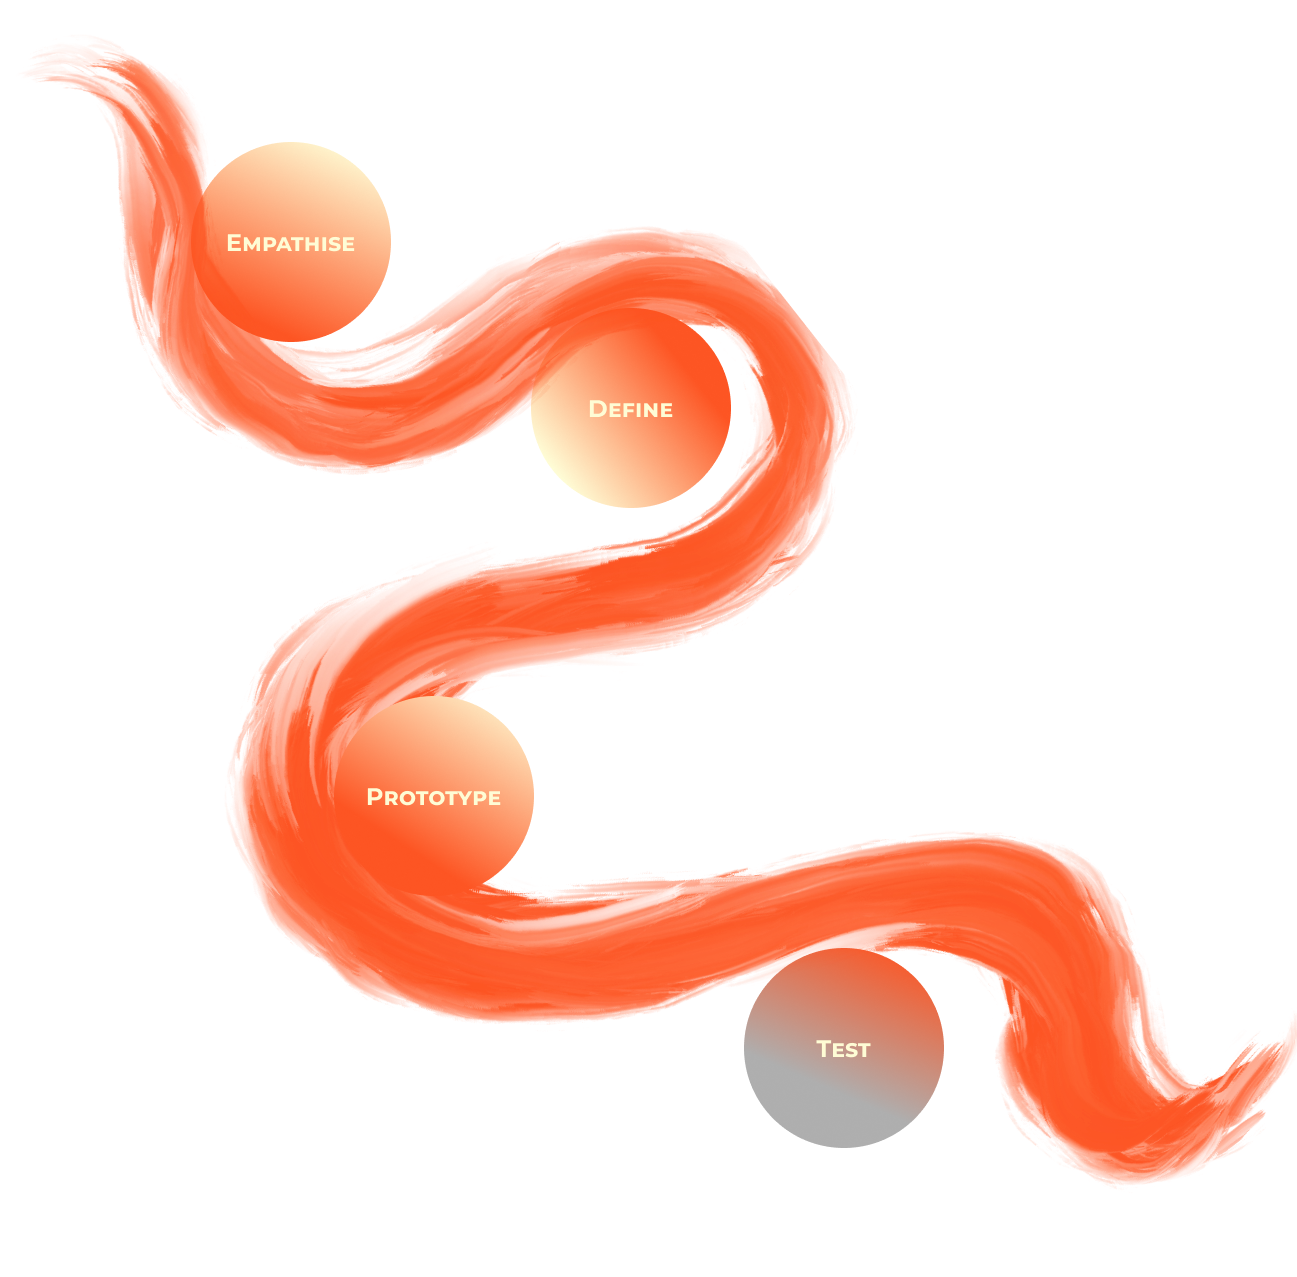
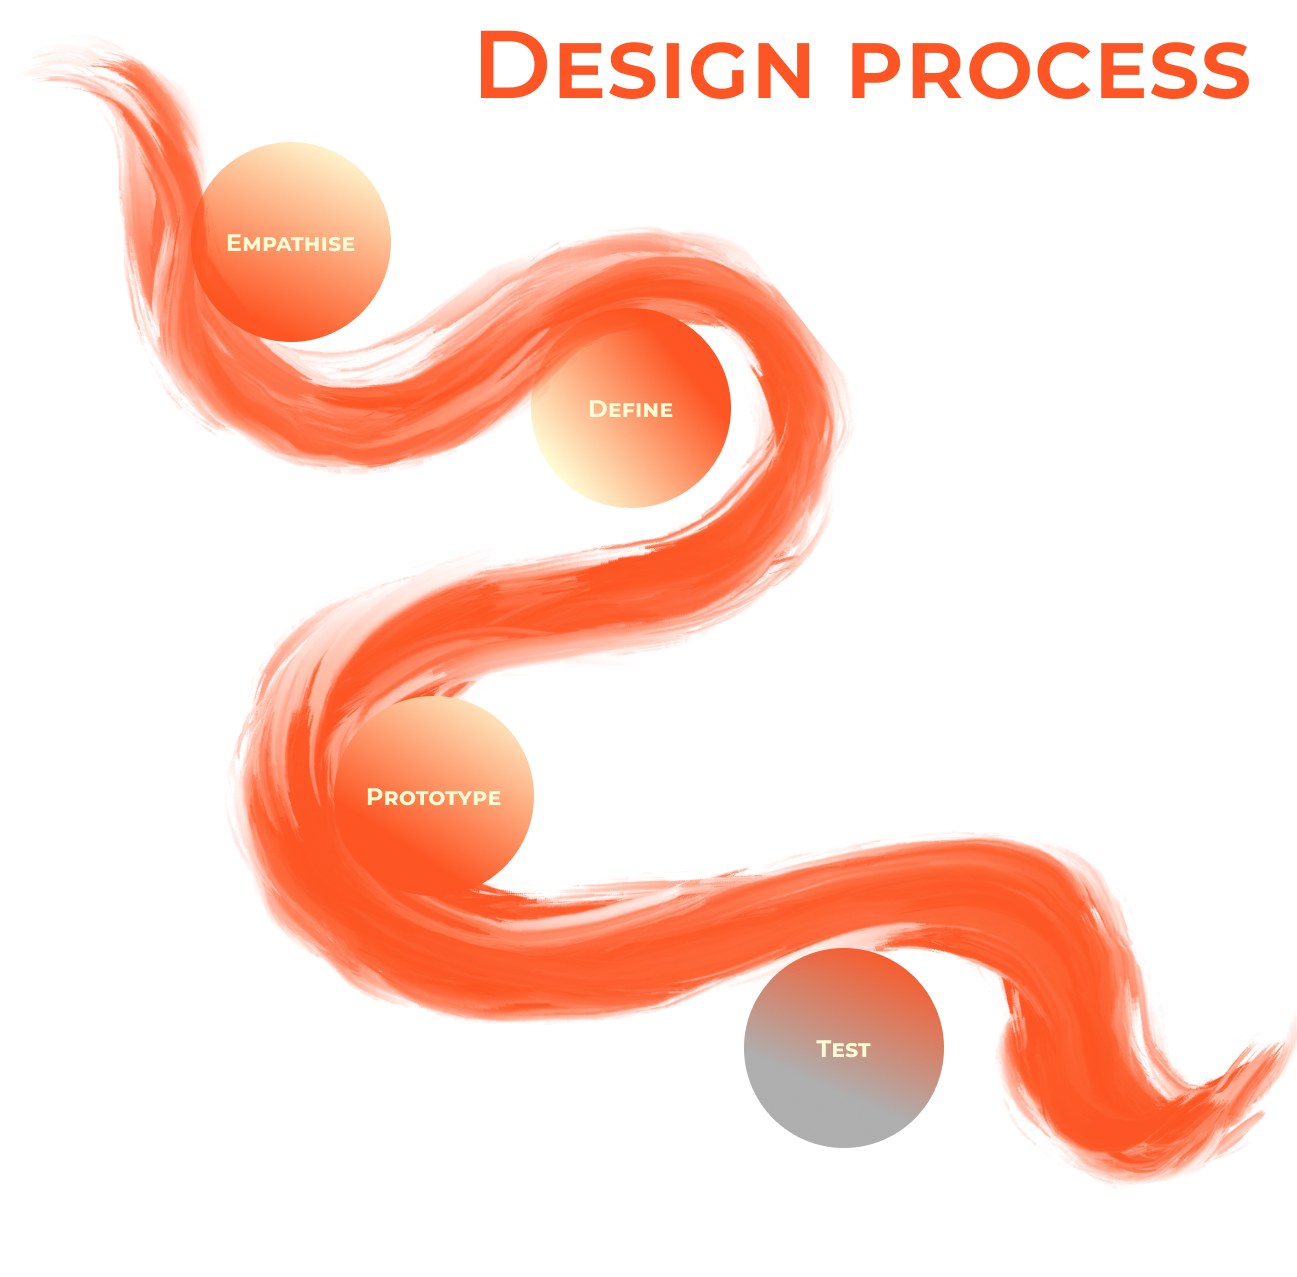
added design process

Changed region(s): [[0.3701, 0.0, 0.9561, 0.0916]]

diff --git a/css/main.css b/css/main.css
@@ -88,15 +88,17 @@ p.dark {
 
 #background-header {
     text-align: center;
+    font-size:100px;
 }
 
 #background-section-container2{
     background-image: url("../images/backgroundsection.png");
-    min-height:1500px;
+    min-height:1300px;
+    height: auto;
 }
 
 #background-section {
-    margin-top:400px;
+    margin-top:300px;
 }
 
 .textcard {
@@ -104,9 +106,28 @@ p.dark {
     border-radius:25px;
     padding:50px;
     max-width:600px;
+    margin-top:20px;
+    margin-left:80px;
 }
 
 #offsetcard {
-    margin-top: 200px;
+    margin-top: 100px;
 
 }
+
+#designprocess {
+    width: 80%;
+    min-width: 400px;
+    min-height:500px;
+}
+.sectioncontainer {
+    margin-top:20px;
+    margin-bottom: 20px;
+}
+#designprocessheader {
+    text-align: right;
+}
+/* 
+.container-fluid.design-process{
+    background-image: url("../images/designprocess.png");
+} */

diff --git a/index.html b/index.html
@@ -81,13 +81,13 @@
 		</div>
 
 		<!--Background---------------------------------------->
-		<div class="container-fluid" id="background-section-container2">
+		<div id="background-section-container2">
 			<div class="row" id="background-section">
 				<div class="col-sm">
 					<h1 class="dark" id="background-header">The Background</h1>
 				</div>
 			</div>
-			<div class="row">
+			<div class="row align-items-center">
 				<div class="col-sm">
 					<div class="textcard">
 						<h3 class=dark>WHY</h3>
@@ -118,6 +118,12 @@
 					</div>
 				</div>
 			</div>
+		</div>
+
+		<!--Design process-->
+
+		<div class="sectioncontainer">
+			<img src="images/designprocess.png" id="designprocess">
 		</div>
 
 	</body>
